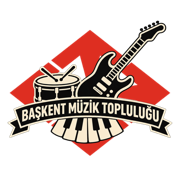
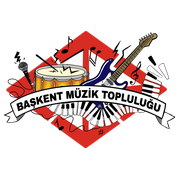
Yeni BÜMT logosu: menü, ana sayfa, alt bilgi, yönetim, ikonlar, paylaşım görseli, e-posta
Claude-Session: https://claude.ai/code/session_01UsBswLtgJA5Le3o14f4pfT

diff --git a/public/assets/site.css b/public/assets/site.css
@@ -671,3 +671,17 @@ body { overflow-x: clip; }
 .notify-card-wrap .notify-card { border-top: 1px solid #EEE6D6; padding-top: 12px; }
 .news-opt { background: #FFF4E5; border: 2px solid #141414; border-radius: 14px; padding: 12px 14px; }
 .news-opt input { accent-color: #D7301F; }
+
+/* Yeni logo (yatay, beyaz konturlu) — yuvarlak çerçeve yok */
+.brand-logo { width: auto; height: 58px; border-radius: 0; background: none; overflow: visible; }
+.brand-logo img { width: auto; height: 58px; filter: drop-shadow(0 2px 4px rgba(0,0,0,.35)); }
+.hero { padding-top: 116px; }
+.hero-badge { width: 250px; height: auto; top: -88px; border-radius: 0; background: none; border: 0; box-shadow: none; overflow: visible; }
+.hero-badge img { width: 100%; height: auto; filter: drop-shadow(0 6px 10px rgba(0,0,0,.35)); }
+.ftr-logo { width: auto; height: 46px; border-radius: 0; background: none; overflow: visible; }
+.ftr-logo img { width: auto; height: 46px; }
+@media (max-width: 860px) {
+  .brand-logo, .brand-logo img { width: auto; height: 46px; }
+  .hero { padding-top: 96px; }
+  .hero-badge { width: 200px; height: auto; top: -70px; }
+}

diff --git a/public/index.html b/public/index.html
@@ -8,8 +8,13 @@
 <meta name="theme-color" content="#141414">
 <meta property="og:title" content="BÜMT — Başkent Üniversitesi Müzik Topluluğu">
 <meta property="og:description" content="Prova odası, enstrüman kursları, dinletiler ve BÜMT Fest.">
-<meta property="og:image" content="/assets/logo.png">
-<link rel="icon" type="image/png" href="/assets/icon.png">
+<meta property="og:image" content="https://www.bumt.com.tr/assets/og.jpg">
+<meta property="og:image:width" content="1200">
+<meta property="og:image:height" content="675">
+<meta name="twitter:card" content="summary_large_image">
+<link rel="icon" href="/favicon.ico" sizes="any">
+<link rel="icon" type="image/png" sizes="32x32" href="/assets/ikon-32.png">
+<link rel="icon" type="image/png" sizes="192x192" href="/assets/ikon-192.png">
 <link rel="apple-touch-icon" href="/assets/icon.png">
 <link rel="preconnect" href="https://fonts.googleapis.com">
 <link rel="preconnect" href="https://fonts.gstatic.com" crossorigin>

diff --git a/api/_duyuru.js b/api/_duyuru.js
@@ -36,7 +36,7 @@ function eventMail(base, e, name, unsubUrl) {
   <table role="presentation" width="100%" cellpadding="0" cellspacing="0" style="max-width:600px">
     <tr><td style="background:#141414;border-radius:18px 18px 0 0;padding:16px 22px">
       <table role="presentation" width="100%" cellpadding="0" cellspacing="0"><tr>
-        <td width="52"><img src="${esc(base)}/assets/logo.png" width="44" height="44" alt="BÜMT" style="display:block;border-radius:50%;background:#fff"></td>
+        <td width="70"><img src="${esc(base)}/assets/logo.png" width="67" height="46" alt="BÜMT" style="display:block;border:0"></td>
         <td style="padding-left:12px"><div style="color:#F4EAD5;font-size:22px;font-weight:bold;letter-spacing:.04em">BÜMT</div><div style="color:#CFC6B4;font-size:12px">Başkent Üniversitesi Müzik Topluluğu</div></td>
         <td align="right">${pill(isDuyuru ? 'Duyuru' : (e.tag || 'Etkinlik'), '#D7301F', '#fff')}</td>
       </tr></table>

diff --git a/public/assets/site.js b/public/assets/site.js
@@ -528,7 +528,7 @@ function Home({ me }) {
 // Instagram
 // ---------------------------------------------------------------------
 const IG_ACCOUNTS = [
-  { handle: 'baskentmt', name: 'Başkent Müzik Topluluğu', sub: 'Duyurular, etkinlikler, sahne anları', logo: '/assets/logo.png' },
+  { handle: 'baskentmt', name: 'Başkent Müzik Topluluğu', sub: 'Duyurular, etkinlikler, sahne anları', logo: '/assets/logo-kare.png' },
   { handle: 'baskent.rock', name: 'Başkent Rock & Metal Komitesi', sub: 'Topluluğumuzun rock & metal komitesi', logo: '/assets/rmk.jpg', cover: true }
 ];
 const IG_ICON = 'M7 3h10a4 4 0 0 1 4 4v10a4 4 0 0 1-4 4H7a4 4 0 0 1-4-4V7a4 4 0 0 1 4-4zM12 8.5a3.5 3.5 0 1 0 0 7 3.5 3.5 0 0 0 0-7zM17.5 6.5h.01';

diff --git a/public/yonetim/index.html b/public/yonetim/index.html
@@ -6,7 +6,9 @@
 <title>BÜMT Yönetim Paneli</title>
 <meta name="robots" content="noindex, nofollow">
 <meta name="theme-color" content="#141414">
-<link rel="icon" type="image/png" href="/assets/icon.png">
+<link rel="icon" href="/favicon.ico" sizes="any">
+<link rel="icon" type="image/png" sizes="32x32" href="/assets/ikon-32.png">
+<link rel="apple-touch-icon" href="/assets/icon.png">
 <link rel="preconnect" href="https://fonts.googleapis.com">
 <link rel="preconnect" href="https://fonts.gstatic.com" crossorigin>
 <link href="https://fonts.googleapis.com/css2?family=Inter:wght@400;500;600;700&display=swap" rel="stylesheet">

diff --git a/public/assets/admin.css b/public/assets/admin.css
@@ -261,3 +261,7 @@ textarea.inp { resize: vertical; }
 .mail-prev { border: 1px solid var(--line2); border-radius: 12px; overflow: hidden; background: #F4EAD5; }
 .mail-subj { padding: 8px 12px; background: #fff; border-bottom: 1px solid var(--line2); }
 .mail-prev iframe { display: block; width: 100%; height: 520px; border: 0; }
+
+/* Yeni logo (yatay) */
+.login-brand img, .side-brand img { width: auto; height: 52px; border-radius: 0; background: none; object-fit: contain; }
+.side-brand img { filter: drop-shadow(0 2px 3px rgba(0,0,0,.4)); }
